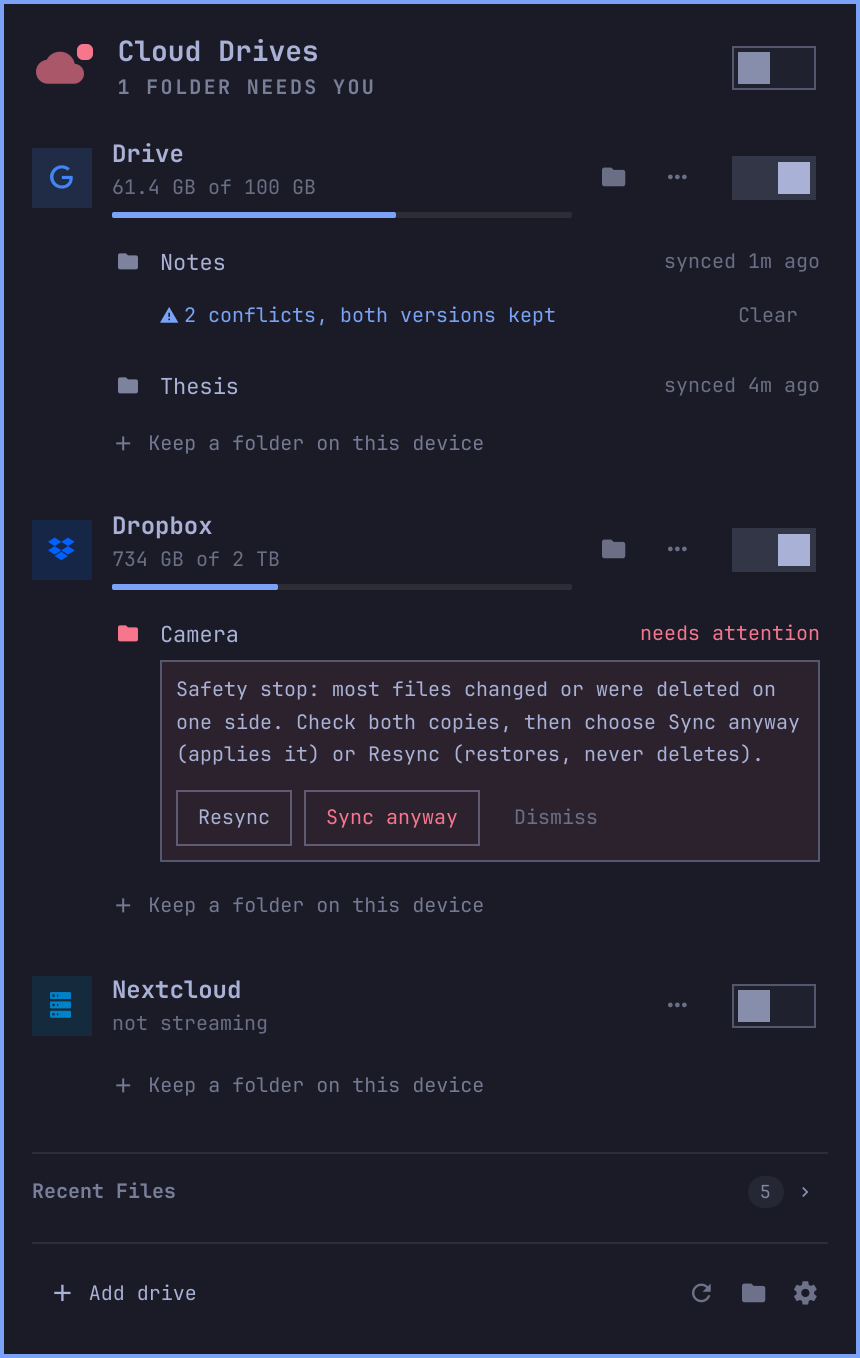
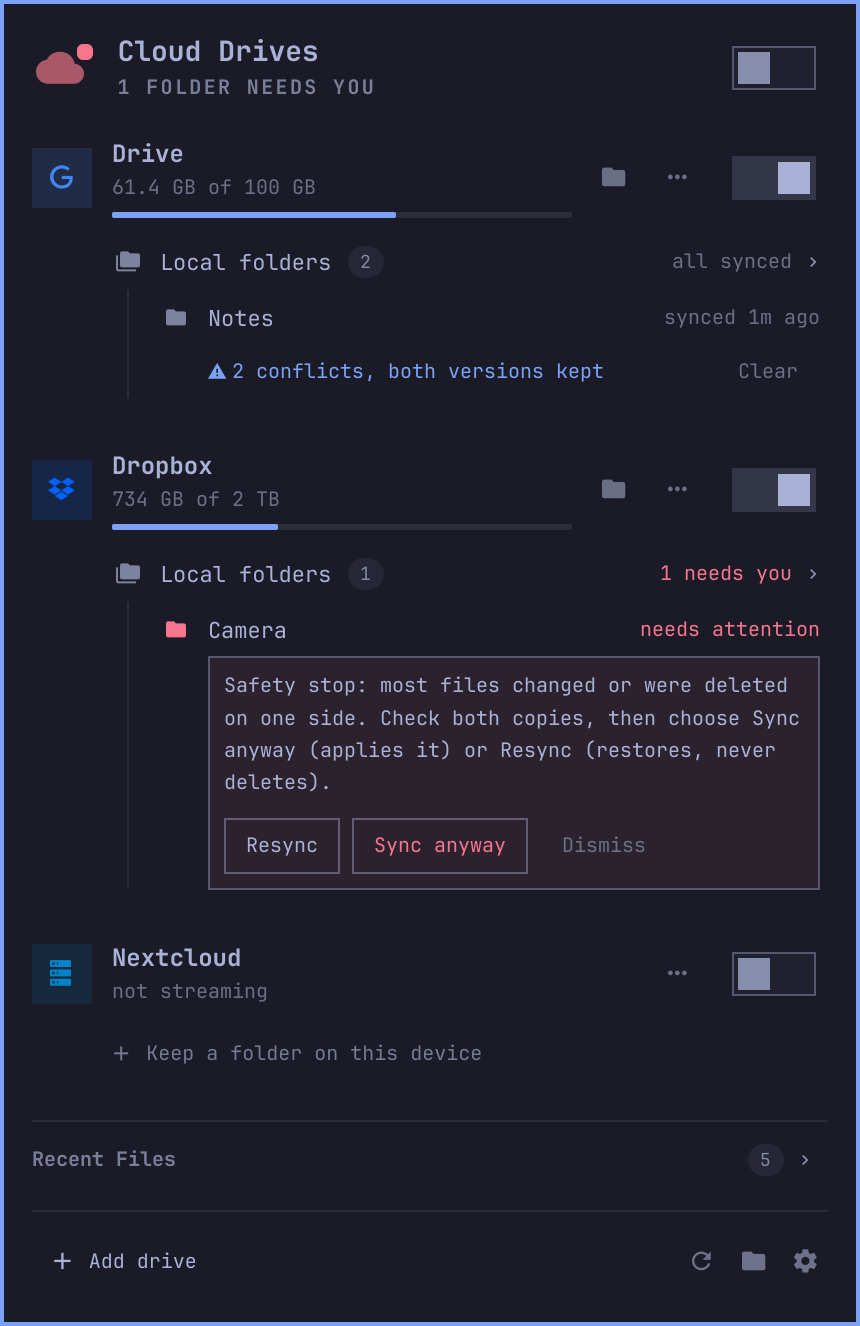
docs: show the folder dropdown in the README
- The widget section has a Local folders entry: one line with the
  count and what the folders are doing, clicked to list them, folders
  that need you listed while it's closed, and lists remembered and
  opened on adding. It replaces Many folders, and the drive card's
  entry points to it. Keep folders on this device says to open Local
  folders first.
- The many-folders scene is shot closed and open, side by side, as
  docs/images/folder-list.png and folder-list-open.png, replacing
  many-folders.png. shots.qml checks that closing the list again
  leaves only the folder with a conflict.
- panel.png shows Drive's list open and Dropbox's closed; conflicts.png
  shows the folders that stay listed with both lists closed.

diff --git a/docs/screenshots/shots.qml b/docs/screenshots/shots.qml
@@ -170,9 +170,10 @@ ShellRoot {
       return true
     })
     step("full height", function() { card.cap = 4000; return true })
+    step("Drive's folders open", function() { content.setFoldersOpen("Drive", true) })
     shot("panel")
 
-    step("attention scene", function() { scene("attention") }, 1200)
+    step("attention scene", function() { scene("attention"); content.setFoldersOpen("Drive", false) }, 1200)
     step("recent collapsed", function() {
       var rf = byProp("files")
       shown(rf).filter(function(i) { return i.cursorShape !== undefined && typeof i.clicked === "function" })[0].clicked(null)
@@ -180,10 +181,18 @@ ShellRoot {
     })
     shot("conflicts")
 
-    // Many folders on one drive: folded down to the ones that need you
+    // Many folders on one drive: closed down to the one that needs a look, then open
     step("many-folders scene", function() { scene("many") }, 1200)
-    step("folded", function() { return driveCard("Drive").folded === true })
-    shot("many-folders")
+    step("closed", function() { return driveCard("Drive").foldersOpen === false })
+    shot("folder-list")
+    step("open", function() { content.setFoldersOpen("Drive", true) })
+    shot("folder-list-open")
+    step("closed again", function() { content.setFoldersOpen("Drive", false) })
+    step("only the conflicted folder still listed", function() {
+      return shown(driveCard("Drive")).filter(function(i) { return i.folder !== undefined && i.folder.name }).map(function(i) {
+        return i.folder.name
+      }).join() === "Notes"
+    })
 
     // Own client: the card's notice, then the guide
     step("shared-client scene", function() { scene("shared") }, 1200)

diff --git a/docs/screenshots/render.py b/docs/screenshots/render.py
@@ -213,7 +213,7 @@ def scene(name: str):
             nextcloud,
         ]
     elif name == "many":
-        # One drive keeping nine folders: folded down to the ones that need you
+        # One drive keeping nine folders: its list closes down to the one that needs a look
         kept = [
             folder("Drive", p, f"b{i:07x}", lastSync=ago(60 * (i + 2)))
             for i, p in enumerate(

diff --git a/README.md b/README.md
@@ -8,7 +8,7 @@ An Omarchy bar widget and background service, built on [rclone](https://rclone.o
 It works with Google Drive, Dropbox, Microsoft OneDrive, Box, pCloud, Nextcloud and ownCloud, WebDAV, S3-compatible storage (AWS, MinIO, Cloudflare R2), Proton Drive, and any remote you have already set up with rclone.
 
 <p align="center">
-  <img src="docs/images/panel.png" width="430" alt="The Clouds Guacamole panel: Google Drive and Dropbox streaming with their quotas, three folders kept on this device with one syncing (progress, current file and speed), two files uploading, Nextcloud not streaming, and recent files">
+  <img src="docs/images/panel.png" width="430" alt="The Clouds Guacamole panel: Google Drive and Dropbox streaming with their quotas, Drive's two local folders listed with one syncing (progress, current file and speed), Dropbox's folder closed to one line, two files uploading, Nextcloud not streaming, and recent files">
 </p>
 
 ```
@@ -28,7 +28,7 @@ Turn on a drive's switch and it is mounted at `~/Cloud/Stream/<Drive>`. Browsing
 
 ## Keep folders on this device
 
-On a drive card, choose **Keep a folder on this device**, browse to a folder and confirm. It is downloaded to `~/Cloud/Sync/<Drive>/<path>`, or anywhere else you pick. From then on:
+On a drive card, open **Local folders** and choose **Keep a folder on this device** (a drive with none shows it right away), browse to a folder and confirm. It is downloaded to `~/Cloud/Sync/<Drive>/<path>`, or anywhere else you pick. From then on:
 
 - **Local edits reach the cloud within about 5 seconds.** The service watches the folder and syncs once you stop typing.
 - **Cloud edits arrive on a timer** (every 5 minutes by default). They also arrive when you click , right after resume from suspend, and when the network comes back.
@@ -40,7 +40,7 @@ On a drive card, choose **Keep a folder on this device**, browse to a folder and
 <table>
   <tr>
     <td valign="top" width="50%"><img src="docs/images/keep-folder.png" width="400" alt="Keep a folder on this device: browsing Drive, Documents, Papers, with its size (2.7 GB in 1284 files) and the local folder it will be kept in"></td>
-    <td valign="top" width="50%"><img src="docs/images/conflicts.png" width="400" alt="A folder with two conflicts, both versions kept, and a Dropbox folder stopped by the safety stop, offering Resync, Sync anyway and Dismiss"></td>
+    <td valign="top" width="50%"><img src="docs/images/conflicts.png" width="400" alt="With both drives' folder lists closed, the folders that need a look stay listed: one with two conflicts, both versions kept, and a Dropbox folder stopped by the safety stop, offering Resync, Sync anyway and Dismiss"></td>
   </tr>
   <tr>
     <td align="center">Choosing a folder to keep</td>
@@ -124,17 +124,24 @@ Remotes already in your rclone config appear as drives right away, not streamed 
   - a streaming switch, and one line with the drive's quota and files still uploading, or its state when it isn't streaming;
   - problems, with a one-click fix: *Retry*, *Reconnect account*, *Take over*, *Set up my own client*;
   - rename, move, your own client and remove, behind ;
-  - its local folders, one line each with their state. Hover a folder for *Sync now*, *Open*, *Pause* and *Stop*, and its name for where it syncs. Progress, conflicts and anything that needs you show under it.
-- **Many folders.** Past three, a drive's folders fold into one line that says what they are doing; click it to list them all. Folders that need you, and new ones still on their first download, stay listed.
+  - its local folders, in a dropdown.
+- **Local folders.** A drive's folders sit behind one line with how many there are and what they are doing: *all synced*, *2 syncing*, *1 needs you*. Click it to list them, one line each with its state. Hover a folder for *Sync now*, *Open*, *Pause* and *Stop*, and its name for where it syncs. Progress, conflicts and anything that needs you show under it. Folders with conflicts or a problem stay listed while the list is closed, so nothing that needs you is behind a click. The panel remembers which lists you opened, and adding a folder opens its drive's list.
 - **Settings.** Stream and sync locations, cache size, sync interval, backup retention and notifications. The **Engine** row has:
   - *Restart* (rclone);
   - *Log*, an in-panel viewer for Guacamole's and rclone's logs, with a problems-only filter, copy and open;
   - *Filters*, which opens `filters.txt` in your editor;
   - *Backups*, the local files syncs replaced or deleted (it says so when there are none yet).
 
-<p align="center">
-  <img src="docs/images/many-folders.png" width="400" alt="A drive keeping nine folders, folded: a folder with a conflict and a new one on its first download stay listed, and the other seven fold into one line saying one of them is syncing">
-</p>
+<table>
+  <tr>
+    <td valign="top" width="50%"><img src="docs/images/folder-list.png" width="400" alt="Drive keeping nine folders with its list closed: one line saying 9 local folders, 2 syncing, and the folder with a conflict still listed under it. Dropbox's folder is closed to one line too"></td>
+    <td valign="top" width="50%"><img src="docs/images/folder-list-open.png" width="400" alt="The same list open: nine folders one line each, two of them syncing with their progress, current file and speed, then Keep a folder on this device"></td>
+  </tr>
+  <tr>
+    <td align="center">Local folders, closed</td>
+    <td align="center">Local folders, open</td>
+  </tr>
+</table>
 
 <table>
   <tr>
